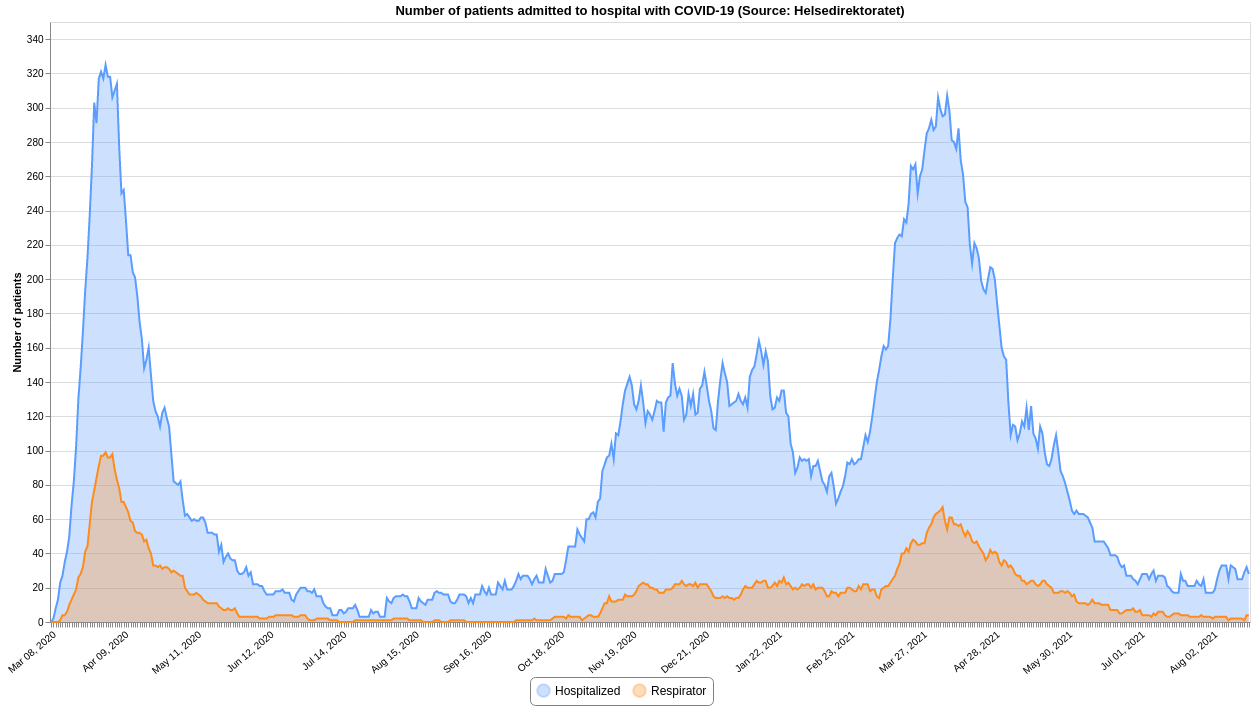
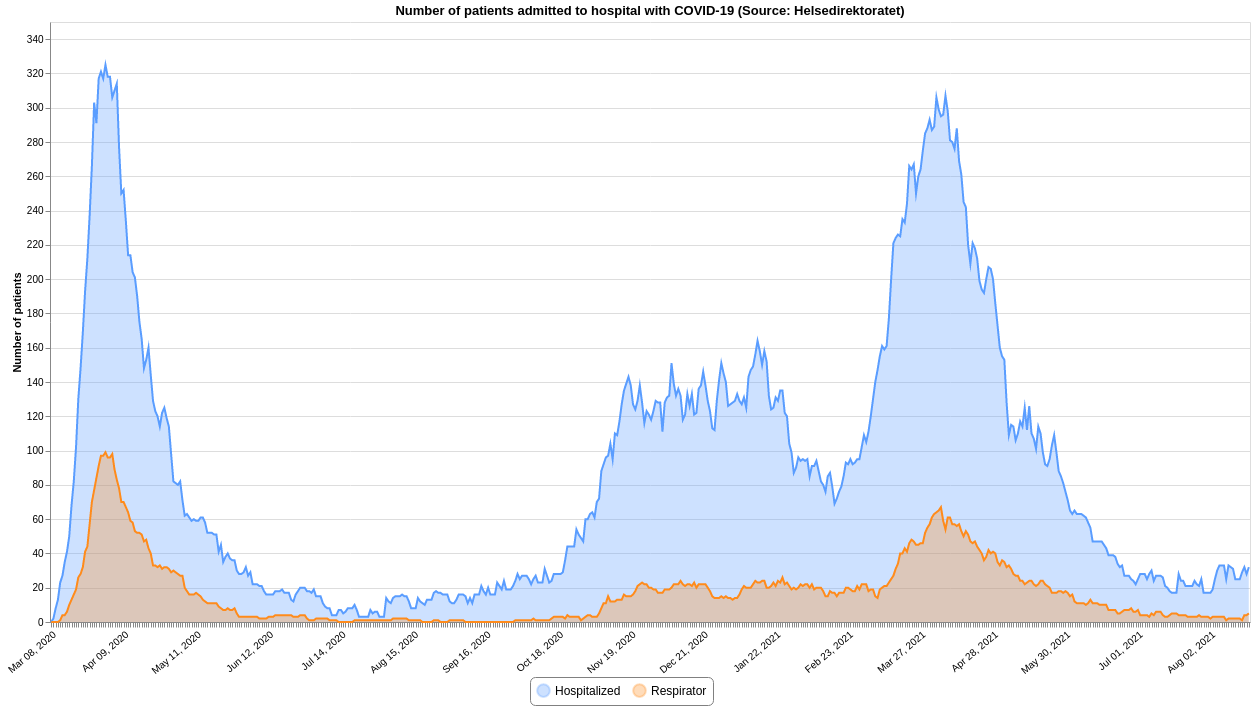
Updated 2021-08-19 12:51

diff --git a/README.md b/README.md
@@ -12,7 +12,7 @@ This repository contains datasets of daily time-series data related to COVID-19 
 | :--- | :--- | :--- | :--- | :--- |
 |[Confirmed](#confirmedcsv)|FHI / MSIS|2021-08-19 00:10:46+02:00|[<center>csv</center>](https://raw.githubusercontent.com/frefrik/covid19norge-data/main/data/confirmed.csv)|[<center>preview</center>](data/confirmed.csv)|
 |[Dead](#deadcsv)|FHI|2021-08-18 13:20:49+02:00|[<center>csv</center>](https://raw.githubusercontent.com/frefrik/covid19norge-data/main/data/dead.csv)|[<center>preview</center>](data/dead.csv)|
-|[Hospitalized](#hospitalizedcsv)|Helsedirektoratet|2021-08-18 12:50:50+02:00|[<center>csv</center>](https://raw.githubusercontent.com/frefrik/covid19norge-data/main/data/hospitalized.csv)|[<center>preview</center>](data/hospitalized.csv)|
+|[Hospitalized](#hospitalizedcsv)|Helsedirektoratet|2021-08-19 12:50:54+02:00|[<center>csv</center>](https://raw.githubusercontent.com/frefrik/covid19norge-data/main/data/hospitalized.csv)|[<center>preview</center>](data/hospitalized.csv)|
 |[Tested](#testedcsv)|FHI|2021-08-18 13:20:44+02:00|[<center>csv</center>](https://raw.githubusercontent.com/frefrik/covid19norge-data/main/data/tested.csv)|[<center>preview</center>](data/tested.csv)|
 |[Tested Lab](#tested_labcsv)|FHI|2021-08-18 13:20:45+02:00|[<center>csv</center>](https://raw.githubusercontent.com/frefrik/covid19norge-data/main/data/tested_lab.csv)|[<center>preview</center>](data/tested_lab.csv)|
 |[Transport](#transportcsv)|FHI|2021-08-18 09:20:47+02:00|[<center>csv</center>](https://raw.githubusercontent.com/frefrik/covid19norge-data/main/data/transport.csv)|[<center>preview</center>](data/transport.csv)|
